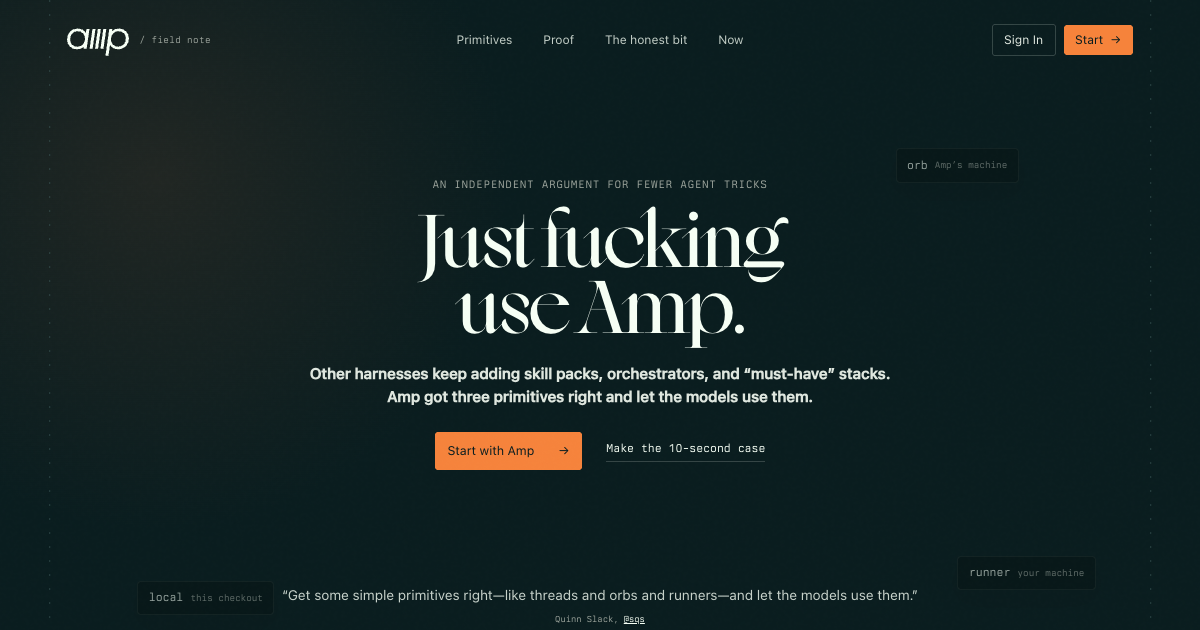
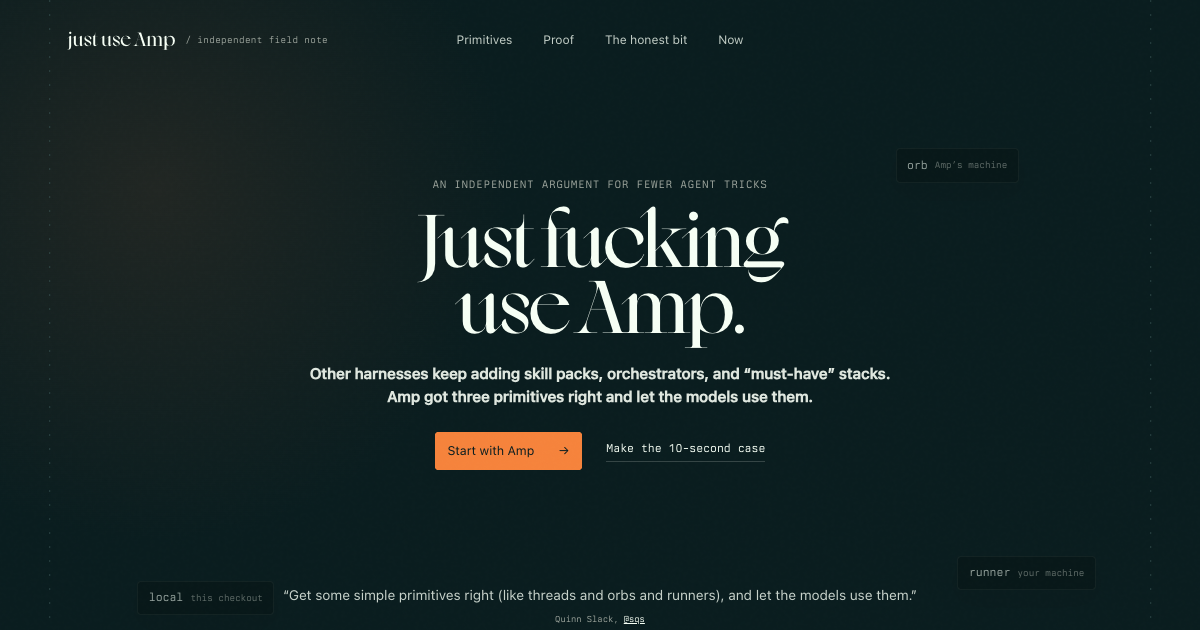
Clarify independent site identity

Changed region(s): [[0.2467, 0.9349, 0.7708, 0.9651], [0.8325, 0.0302, 0.9558, 0.0905], [0.0617, 0.0302, 0.2158, 0.0905]]

diff --git a/src/index.html b/src/index.html
@@ -32,10 +32,8 @@
 
     <header class="site-header">
       <a class="brand" href="#top" aria-label="Just fucking use Amp, home">
-        <svg viewBox="0 0 281 144" fill="currentColor" aria-hidden="true">
-          <path d="M236.014 20C260.431 20 280.602 37.412 280.603 64.743C280.602 93.534 260.065 114.166 233.52 114.166C224.158 114.166 215.639 112.422 208.63 108.49C202.886 105.27 198.203 100.605 194.919 94.338L188.115 141.822L187.946 143.016H174.214L174.448 141.423L191.772 22.494H205.372L203.937 31.337C212.143 23.861 223.2 20 236.014 20ZM47.082 20.154C56.444 20.154 65.001 21.899 72.049 25.849C77.822 29.083 82.532 33.771 85.827 40.085L88.12 23.692L88.286 22.493H101.863L89.161 110.633L88.987 111.826H75.409L76.723 102.855C68.585 110.456 57.398 114.323 44.589 114.323C20.171 114.323 0 96.909 0 69.577C0 40.785 20.54 20.155 47.082 20.154ZM116.234 110.636L116.061 111.827H102.485L115.351 23.686L115.521 22.494H129.083L116.234 110.636ZM140.673 110.636L140.499 111.827H126.924L139.789 23.686L139.96 22.494H153.521L140.673 110.636ZM177.958 22.494L165.108 110.636L164.935 111.827H151.36L164.225 23.686L164.396 22.494H177.958ZM48.485 31.984C27.864 31.985 14.013 48.38 14.013 68.952C14.013 77.791 16.809 86.177 22.315 92.334C27.797 98.466 36.063 102.493 47.24 102.493C67.853 102.493 81.712 85.949 81.713 65.368C81.713 55.408 78.249 47.08 72.413 41.244C66.579 35.409 58.287 31.984 48.485 31.984ZM233.362 31.829C212.749 31.83 198.89 48.372 198.89 68.952C198.89 78.912 202.356 87.24 208.189 93.074C214.023 98.911 222.315 102.336 232.116 102.336C252.738 102.335 266.589 85.941 266.59 65.368C266.59 56.53 263.795 48.142 258.29 41.986C252.807 35.855 244.542 31.829 233.362 31.829Z" />
-        </svg>
-        <span>/ field note</span>
+        <strong>just use Amp</strong>
+        <span>/ independent field note</span>
       </a>
       <nav aria-label="Primary navigation">
         <a href="#primitives">Primitives</a>
@@ -43,10 +41,6 @@
         <a href="#honest">The honest bit</a>
         <a href="#now">Now</a>
       </nav>
-      <div class="header-actions">
-        <a class="sign-in" href="https://ampcode.com/auth/sign-in">Sign In</a>
-        <a class="header-cta" href="https://ampcode.com/auth/sign-up">Start <span aria-hidden="true">→</span></a>
-      </div>
       <a class="mobile-menu" href="#comparison" aria-label="Jump to the comparison">
         <svg viewBox="0 0 24 24" fill="none" aria-hidden="true"><path d="m6 9 6 6 6-6" stroke="currentColor" stroke-width="1.5" /></svg>
       </a>
@@ -94,7 +88,7 @@
         </div>
 
         <blockquote class="hero-quote">
-          <p>“Get some simple primitives right—like threads and orbs and runners—and let the models use them.”</p>
+          <p>“Get some simple primitives right (like threads and orbs and runners), and let the models use them.”</p>
           <footer>Quinn Slack, <a href="https://x.com/sqs/status/2100856575934296101">@sqs</a></footer>
         </blockquote>
       </section>
@@ -272,7 +266,7 @@
         <div class="tweet-wall grid-shell">
           <a class="tweet tweet-feature" href="https://x.com/adamwathan/status/2092737556903231569">
             <div class="tweet-user"><span class="avatar avatar-aw"><span>AW</span><img src="assets/avatars/adamwathan.jpg" width="160" height="160" loading="lazy" alt="" /></span><div><strong>Adam Wathan</strong><small>@adamwathan · Tailwind CSS</small></div><b>𝕏</b></div>
-            <p>“Amp is consistently 3–4 months ahead of every other harness.”</p>
+            <p>“@AmpCode is consistently 3-4 months ahead of every other harness… feels like their only disadvantage is not being a model company and not being able to subsidize tokens.”</p>
             <footer>Open original post <span>↗</span></footer>
           </a>
           <a class="tweet" href="https://x.com/dillon_mulroy/status/2013823122735055111">
@@ -282,27 +276,27 @@
           </a>
           <a class="tweet" href="https://x.com/CasJam/status/2100392360890818781">
             <div class="tweet-user"><span class="avatar avatar-bc"><span>BC</span><img src="assets/avatars/CasJam.jpg" width="160" height="160" loading="lazy" alt="" /></span><div><strong>Brian Casel</strong><small>@CasJam</small></div><b>𝕏</b></div>
-            <p>“All my work is happening on orbs now… Each [team member] on their own orb.”</p>
+            <p>“All my work is happening on orbs (cloud agents) now. Most of the time I'm working through one "orchestrator" who spawns a few team members (code implementer, copywriter, designer, etc.). Each on their own orb. Sometimes in different repos. Often using different models. All talking and coordinating with each other.”</p>
             <footer>Open original post <span>↗</span></footer>
           </a>
           <a class="tweet" href="https://x.com/Shreyassanthu77/status/2099144303457243269">
             <div class="tweet-user"><span class="avatar avatar-sm"><span>SM</span><img src="assets/avatars/Shreyassanthu77.jpg" width="160" height="160" loading="lazy" alt="" /></span><div><strong>Shreyas Mididoddi</strong><small>@Shreyassanthu77</small></div><b>𝕏</b></div>
-            <p>“Amp is by far the best harness out right now… focused set of features and really, really well implemented.”</p>
+            <p>“If you don't have a super convoluted custom setup like I do amp is by far the best harness out right now. They intentionally have focused set of features and really really well implemented.”</p>
             <footer>Open original post <span>↗</span></footer>
           </a>
           <a class="tweet tweet-wide" href="https://x.com/mitchellh/status/1982858808285421889">
             <div class="tweet-user"><span class="avatar avatar-mh"><span>MH</span><img src="assets/avatars/mitchellh.jpg" width="160" height="160" loading="lazy" alt="" /></span><div><strong>Mitchell Hashimoto</strong><small>@mitchellh · Ghostty / HashiCorp</small></div><b>𝕏</b></div>
-            <p>“Prompting an agent to metaphorically ‘complete the owl’ is some of the highest value you can get out of an agent… the given thread took the agent less than 10 seconds.”</p>
+            <p>“Writing high quality initial code and prompting an agent to metaphorically "complete the owl" is some of the highest value you can get out of an agent. For example, the given thread took the agent less than 10 seconds. It would've taken me minutes.”</p>
             <footer>Open original post <span>↗</span></footer>
           </a>
           <a class="tweet" href="https://x.com/iannuttall/status/2100584421598347641">
             <div class="tweet-user"><span class="avatar avatar-in"><span>IN</span><img src="assets/avatars/iannuttall.jpg" width="160" height="160" loading="lazy" alt="" /></span><div><strong>Ian Nuttall</strong><small>@iannuttall</small></div><b>𝕏</b></div>
-            <p>“‘just use Amp’ is becoming pretty much a foregone conclusion. Not an ad.”</p>
+            <p>“"just use Amp" is becoming pretty much a foregone conclusion. Not an ad.”</p>
             <footer>Open original post <span>↗</span></footer>
           </a>
           <a class="tweet" href="https://x.com/SkeletorJS/status/2098877928222466393">
             <div class="tweet-user"><span class="avatar avatar-js"><span>JS</span><img src="assets/avatars/SkeletorJS.jpg" width="160" height="160" loading="lazy" alt="" /></span><div><strong>Jordan</strong><small>@SkeletorJS</small></div><b>𝕏</b></div>
-            <p>“Amp is hands down the best harness around and it’s not even close.”</p>
+            <p>“@AmpCode is hands down the best harness around and it's not even close.”</p>
             <footer>Open original post <span>↗</span></footer>
           </a>
           <a class="tweet tweet-small" href="https://x.com/stableshaman/status/2100559307632984186">
@@ -312,7 +306,7 @@
           </a>
           <a class="tweet tweet-zx-quality" href="https://x.com/zxcodes/status/2048833700906099113">
             <div class="tweet-user"><span class="avatar avatar-zx"><span>ZX</span><img src="assets/avatars/zxcodes.jpg" width="160" height="160" loading="lazy" alt="" /></span><div><strong>zxcodes</strong><small>@zxcodes</small></div><b>𝕏</b></div>
-            <p>“Amp is the finest coding agent in the CLI space. Nothing comes close to it. Performance, tool calls, you name it. It just works beautifully.”</p>
+            <p>“Amp is the finest coding agent in the CLI space. Nothing comes close to it. Performance, tool calls, you name it. It just works beautifully. I haven’t seen anything perform so reliably in such a rapidly changing landscape. Definitely S-tier stuff right there. @AmpCode”</p>
             <footer>Open original post <span>↗</span></footer>
           </a>
           <a class="tweet tweet-zx-primitives" href="https://x.com/zxcodes/status/2100872755172549112">
@@ -340,7 +334,7 @@
             </ul>
           </div>
           <blockquote class="taste-quote">
-            <p>“Opinionated and generally with great taste. You can feel it in every decision and interaction.”</p>
+            <p>“opinionated and generally with great taste. you can feel it in every decision and interaction, there is intent and thought behind everything.”</p>
             <footer>Dillon Mulroy, <a href="https://x.com/dillon_mulroy/status/2012698290337284548">@dillon_mulroy</a></footer>
           </blockquote>
         </div>
@@ -392,6 +386,7 @@
       <div class="footer-brand">
         <strong>Just fucking use Amp.</strong>
         <p>Independent fan site. Not affiliated with Amp.</p>
+        <a class="footer-repo" href="https://github.com/zxcodes/justfuckinguseamp" translate="no">github.com/zxcodes/justfuckinguseamp <span aria-hidden="true">↗</span></a>
       </div>
       <div class="footer-links">
         <div><strong>Product</strong><a href="https://ampcode.com">Amp</a><a href="https://ampcode.com/pricing">Pricing</a><a href="https://ampcode.com/modes">Models</a></div>

diff --git a/src/styles.css b/src/styles.css
@@ -154,9 +154,7 @@ h3 {
 }
 
 .brand,
-.site-header nav,
-.header-cta,
-.header-actions {
+.site-header nav {
   display: flex;
   align-items: center;
 }
@@ -171,9 +169,11 @@ h3 {
   color: var(--muted);
 }
 
-.brand svg {
-  width: 62px;
-  height: 32px;
+.brand strong {
+  font-family: var(--display);
+  font-size: 1.2rem;
+  font-weight: 400;
+  letter-spacing: -0.03em;
   color: var(--paper);
 }
 
@@ -200,30 +200,6 @@ h3 {
 .site-header nav a:hover {
   border-color: var(--line);
   background: rgba(246, 255, 245, 0.035);
-}
-
-.header-actions {
-  justify-self: end;
-  gap: 0.5rem;
-}
-
-.sign-in,
-.header-cta {
-  min-height: 30px;
-  padding: 0.32rem 0.72rem;
-  border-radius: 3px;
-  font-size: 0.76rem;
-}
-
-.sign-in {
-  border: 1px solid var(--line-strong);
-  color: var(--paper-soft);
-}
-
-.header-cta {
-  gap: 0.45rem;
-  color: var(--ink);
-  background: var(--orange);
 }
 
 .mobile-menu { display: none; }
@@ -352,8 +328,7 @@ h3 {
   background: var(--orange);
 }
 
-.button-primary:hover,
-.header-cta:hover {
+.button-primary:hover {
   background: #ffa067;
 }
 
@@ -1022,7 +997,7 @@ h3 {
   background: linear-gradient(145deg, rgba(246, 131, 59, 0.12), rgba(9, 28, 30, 0.35) 60%);
 }
 
-.tweet-feature p { font-size: clamp(2.2rem, 3.8vw, 4.7rem) !important; }
+.tweet-feature p { font-size: clamp(1.8rem, 2.8vw, 3.4rem) !important; }
 .tweet:nth-child(2) { grid-area: dillon; }
 .tweet:nth-child(3) { grid-area: brian; }
 .tweet:nth-child(4) { grid-area: shreyas; }
@@ -1263,6 +1238,19 @@ h3 {
 .footer-brand p,
 .footer-note { color: var(--muted); font-size: 0.68rem; }
 
+.footer-repo {
+  margin-top: 0.4rem;
+  display: inline-block;
+  color: var(--muted);
+  font-family: var(--mono);
+  font-size: 0.62rem;
+  text-decoration: underline;
+  text-decoration-color: var(--line-strong);
+  text-underline-offset: 0.2em;
+}
+
+.footer-repo:hover { color: var(--paper); }
+
 .footer-links {
   grid-column: 7 / 13;
   display: grid;
@@ -1287,7 +1275,7 @@ h3 {
 .footer-note a { color: var(--paper-soft); text-decoration: underline; text-underline-offset: 0.18em; }
 
 @media (max-width: 1050px) {
-  .site-header { grid-template-columns: 1fr auto auto; }
+  .site-header { grid-template-columns: 1fr auto; }
   .site-header nav { display: none; }
   .hero-copy { grid-column: 2 / 12; }
   .hero-quote { grid-column: 2 / 12; }
@@ -1325,9 +1313,7 @@ h3 {
     height: 51px;
     grid-template-columns: 1fr auto;
   }
-  .brand svg { width: 55px; height: 28px; }
   .brand > span { display: none; }
-  .header-actions { display: none; }
   .mobile-menu {
     width: 48px;
     height: 48px;
